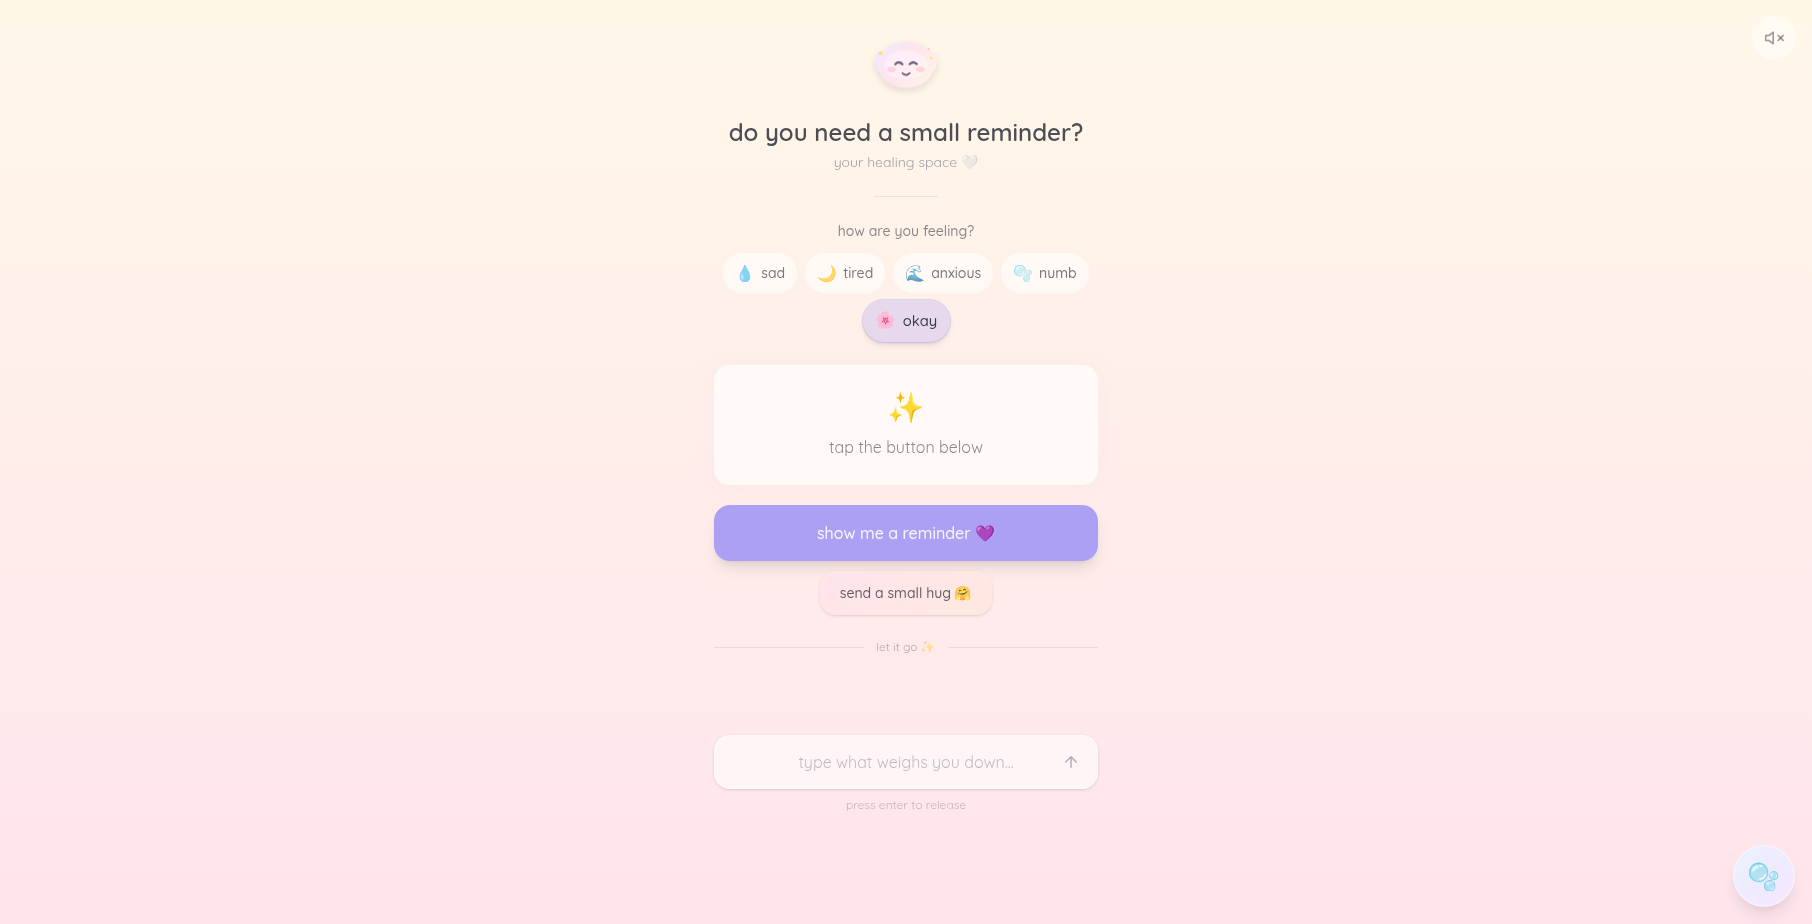
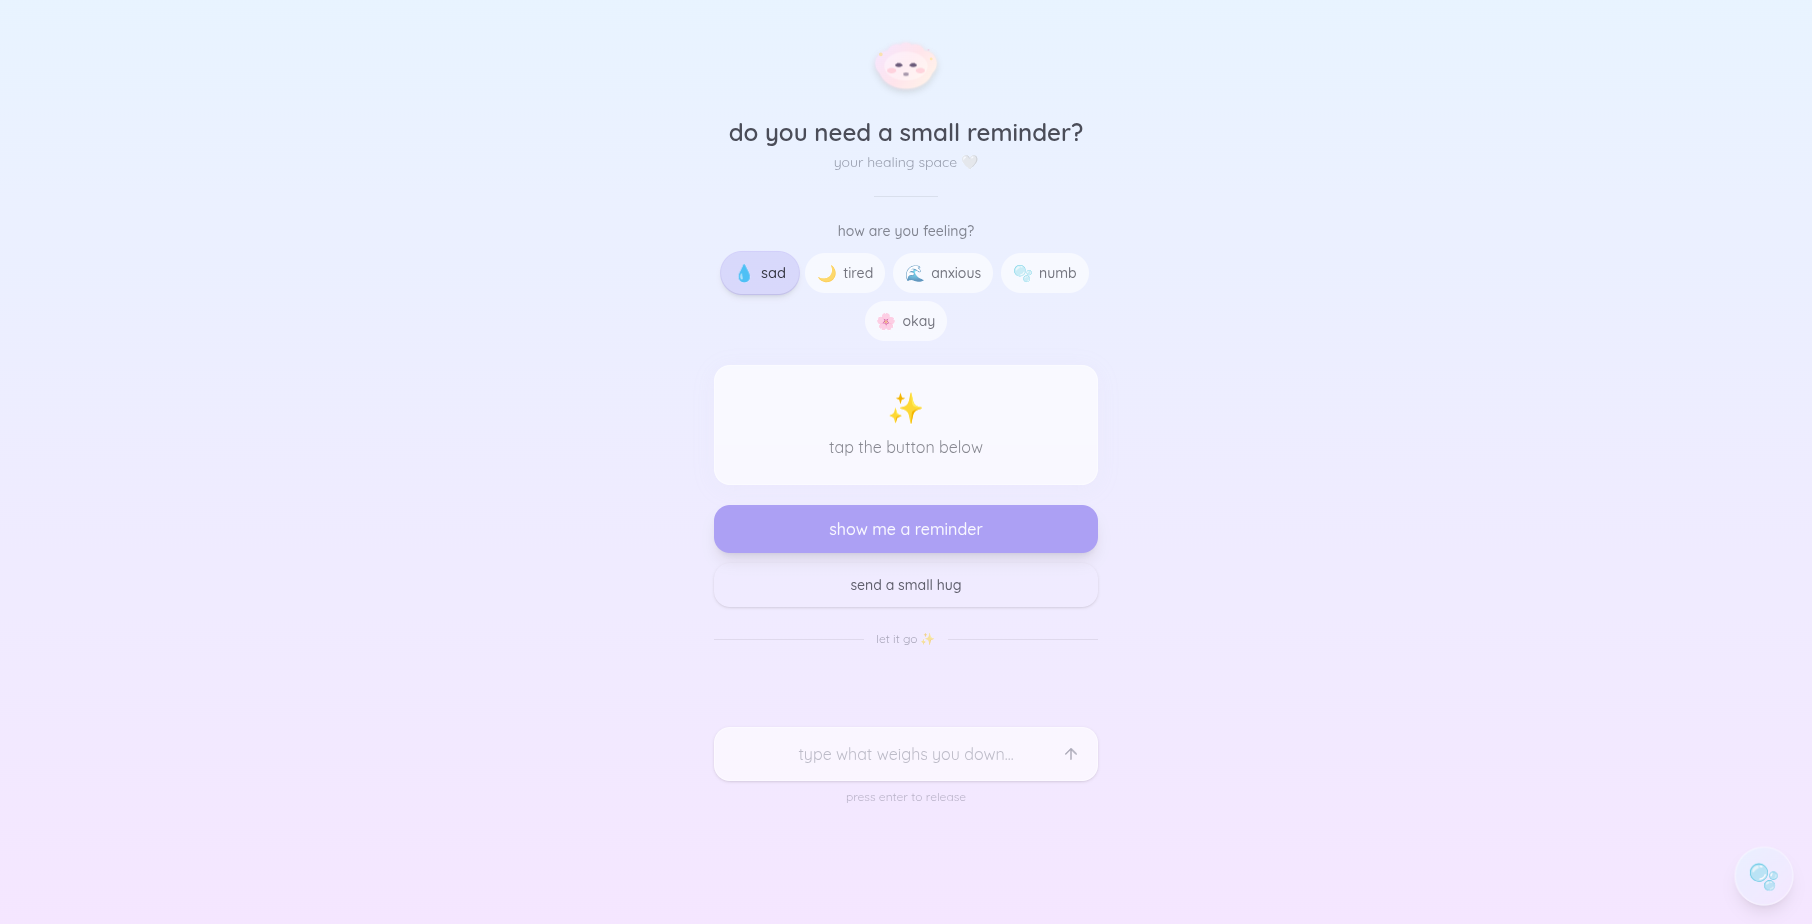
feat(sound): remove sound effects and related assets

Changed region(s): [[0.4018, 0.5455, 0.6181, 0.697], [0.3709, 0.2727, 0.5254, 0.3939], [0.4327, 0.8182, 0.5563, 0.8788]]

diff --git a/README.md b/README.md
@@ -38,10 +38,6 @@ Send yourself a warm, animated virtual hug with a full-screen immersive animatio
 
 Type what weighs you down and watch the words float away, symbolizing emotional release.
 
-### 🔊 Sound Effects
-
-Optional soft chime sounds when receiving new reminders for a more immersive experience.
-
 ### ☁ Cute Mascot
 
 An adorable cloud companion with mood-based expressions that responds to your interactions.
@@ -81,7 +77,6 @@ do-you-need-a-small-reminder/
 │   │   │   ├── MoodSelector.tsx
 │   │   │   ├── ParticleBackground.tsx
 │   │   │   ├── ReminderCard.tsx
-│   │   │   └── SoundToggle.tsx
 │   │   ├── App.tsx            # Main application component
 │   │   ├── index.css          # Global styles & animations
 │   │   └── main.tsx           # Entry point
